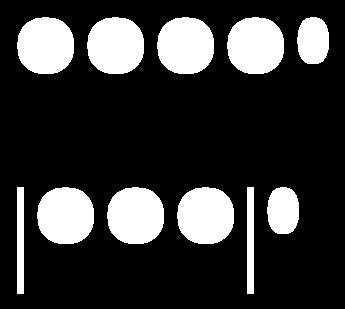
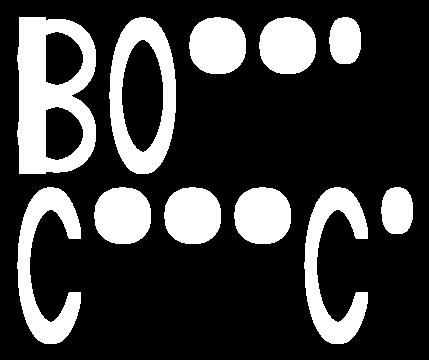
halfway done

Changed region(s): [[0.029, 0.0291, 0.9855, 0.9612], [0.1739, 0.0583, 0.2029, 0.0874]]

diff --git a/src/main/java/Letter/LetterFactory.java b/src/main/java/Letter/LetterFactory.java
@@ -2,6 +2,9 @@ package Letter;
 
 import Point.Point2d;
 import Shape.*;
+import Shape.Rectangle;
+
+import java.awt.*;
 
 public final class LetterFactory {
     final static Double maxHeight = 150.0;
@@ -27,9 +30,26 @@ public final class LetterFactory {
      * @return BaseShape containing the letter B
      */
     public static BaseShape create_B() {
-        BaseShape letterA = new BaseShape();
-        letterA.add(new Circle(25.0));
-        return letterA;
+        BaseShape letterB = new BaseShape();
+
+        //Rectangle a gauche
+        BaseShape rectangle = new Rectangle(maxWidth * 0.35, maxHeight);
+        rectangle.translate(rectangle.getCoords(), new Point2d(-0.4*maxWidth, 0.0));
+        letterB.add(rectangle);
+
+        //Cercle de bas
+        BaseShape cercle1 = new Circle(maxWidth*0.6);
+        BaseShape cercle1Inside = new Circle(maxWidth*0.5);
+        cercle1.remove(cercle1Inside);
+        cercle1.translate(cercle1.getCoords(), new Point2d(0.0, maxHeight*0.25));
+        letterB.add(cercle1);
+
+        //Cercle de haut
+        cercle1.translate(cercle1.getCoords(), new Point2d(0.0, maxHeight*-0.5));
+        letterB.add(cercle1);
+
+
+        return letterB;
     }
 
     /** TODO
@@ -38,7 +58,14 @@ public final class LetterFactory {
      */
     public static BaseShape create_C() {
         BaseShape letterC = new BaseShape();
-        letterC.add(new Rectangle(35.0, 100.0));
+
+        letterC.add(new Ellipse(maxWidth, maxHeight));
+        letterC.remove(new Ellipse(maxWidth*0.80, maxHeight*0.80));
+
+        BaseShape rectangle = new Rectangle(maxWidth*0.50, maxHeight*0.40);
+        rectangle.translate(rectangle.getCoords(), new Point2d(maxWidth*0.3, 0.0));
+        letterC.remove(rectangle);
+
         return letterC;
     }
 
@@ -77,9 +104,10 @@ public final class LetterFactory {
      * @return BaseShape containing the letter O
      */
     public static BaseShape create_O() {
-        BaseShape letterA = new BaseShape();
-        letterA.add(new Circle(25.0));
-        return letterA;
+        BaseShape letterO = new BaseShape();
+        letterO.add(new Ellipse(maxWidth, maxHeight));
+        letterO.remove(new Ellipse(maxWidth*0.80, maxHeight*0.80));
+        return letterO;
     }
 
 }

diff --git a/src/main/java/Shape/Rectangle.java b/src/main/java/Shape/Rectangle.java
@@ -13,15 +13,13 @@ public class Rectangle extends BaseShape {
     public Rectangle(Double width, Double height) {
         super();
         Double startingX = -width/2;
+        Double endX = width/2;
         Double startingY = -height/2;
-        for (Double k = 0.0; k < width*height;  k++)
+        Double endY = height/2;
+        for (Double x = startingX; x < endX;  x += 0.5)
         {
-            startingX += 0.5;
-            while(startingY < height/2)
-            {
-                Point2d pointAdd = new Point2d(startingX, startingY);
-                this.add(pointAdd);
-                startingY += 0.5;
+            for (Double y = startingY; y < endY; y += 0.5){
+                add(new Point2d(x,y));
             }
         }
     }
